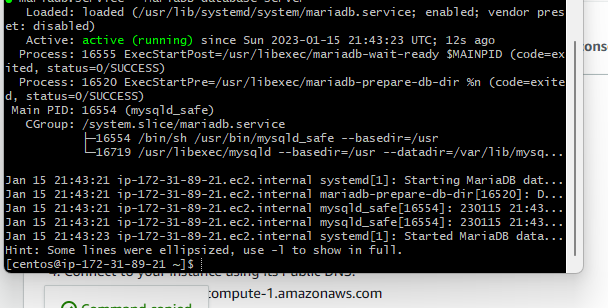
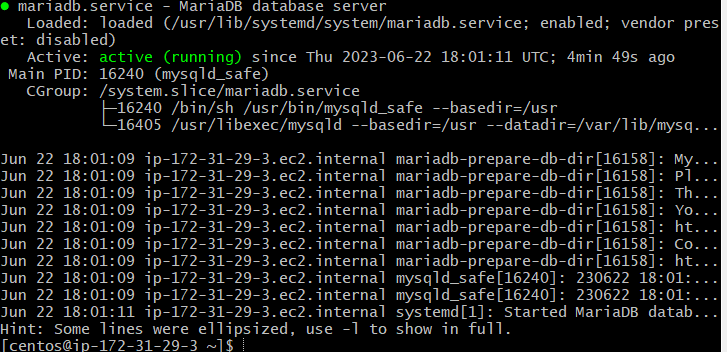
read me

diff --git a/project-2/README.md b/project-2/README.md
@@ -83,10 +83,10 @@ Project Architecture:
 
 ### Create a Private Hosted Zone in Route53
 * Now that our backend services are now running, lets updates the private IP's in Route53 DNS zone.
-  * *db01* == `172.31.89.21` 
-  * *mc01* == `172.31.81.3`
-  * *rmq01* == `172.31.80.70`
-* Create `vprofile.in`in `Private Hosted` zone using Route53 for our backend services. we will pick Default VPC in N.Virginia region. This recordso any changes would be used by our  `application.properties` file so whenever the public ip changes it won't affect our application.
+  * *db01* == `172.31.29.3` 
+  * *mc01* == `172.31.82.34`
+  * *rmq01* == `172.31.82.34`
+* Create `vprofile.in`in `Private Hosted` zone using Route53 for our backend services. we will pick Default VPC in N.Virginia region. This record so any changes would be used by our  `application.properties` file so whenever the public ip changes it won't affect our application.
   ![route53](Images/route53.png)
 
 ### Provision the application ec2 instances with userdata script
@@ -101,13 +101,13 @@ Project Architecture:
 
 ### Create artifact locally with maven
 * Clone the [project source repository](https://github.com/devopshydclub/vprofile-project/tree/aws-LiftAndShift)
-* Make changes where necessary in `application.properties` fle under the `/src/main/resources` to the following below;
+* Make changes where necessary in `application.properties` file under the `/src/main/resources` to the following below;
   ```sh
     jdbc.url=jdbc:mysql://db01.vprofile.in:3306/accounts?useUnicode=true&
     memcached.active.host=mc01.vprofile.in
     rabbitmq.address=rmq01.vprofile.in
   ```
-* Go to the `vprofile-project` directory where the `pom.xml` file exits and execute the command below to create our artifact;
+* Go to the `vprofile-project` directory where the `pom.xml` file exits and execute the command below to create our artifact;you need to have java(jdk8)and maven already install on you local machine.
   ```sh
     mvn install
   ```
